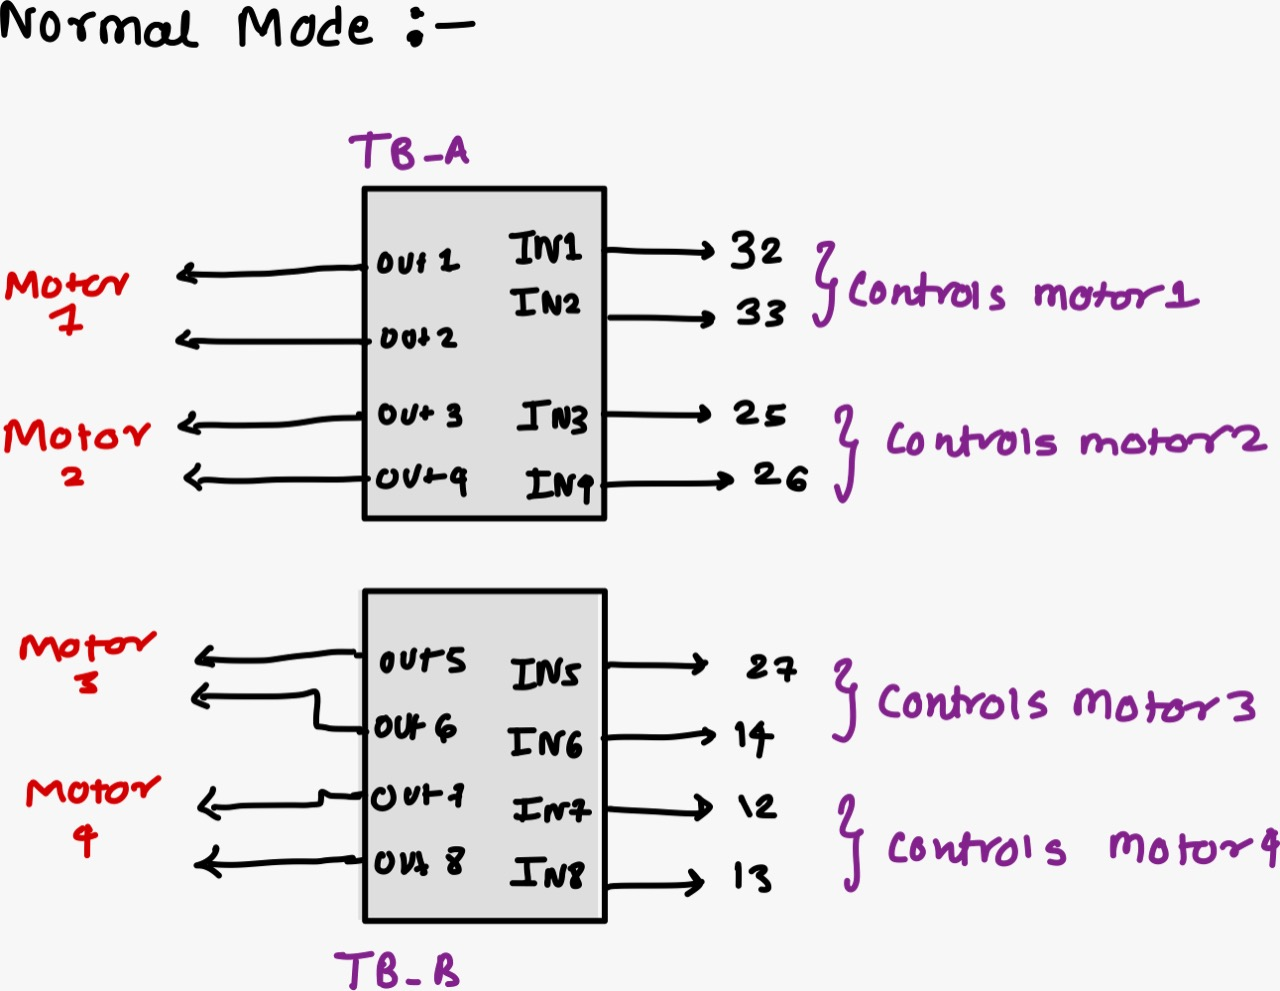
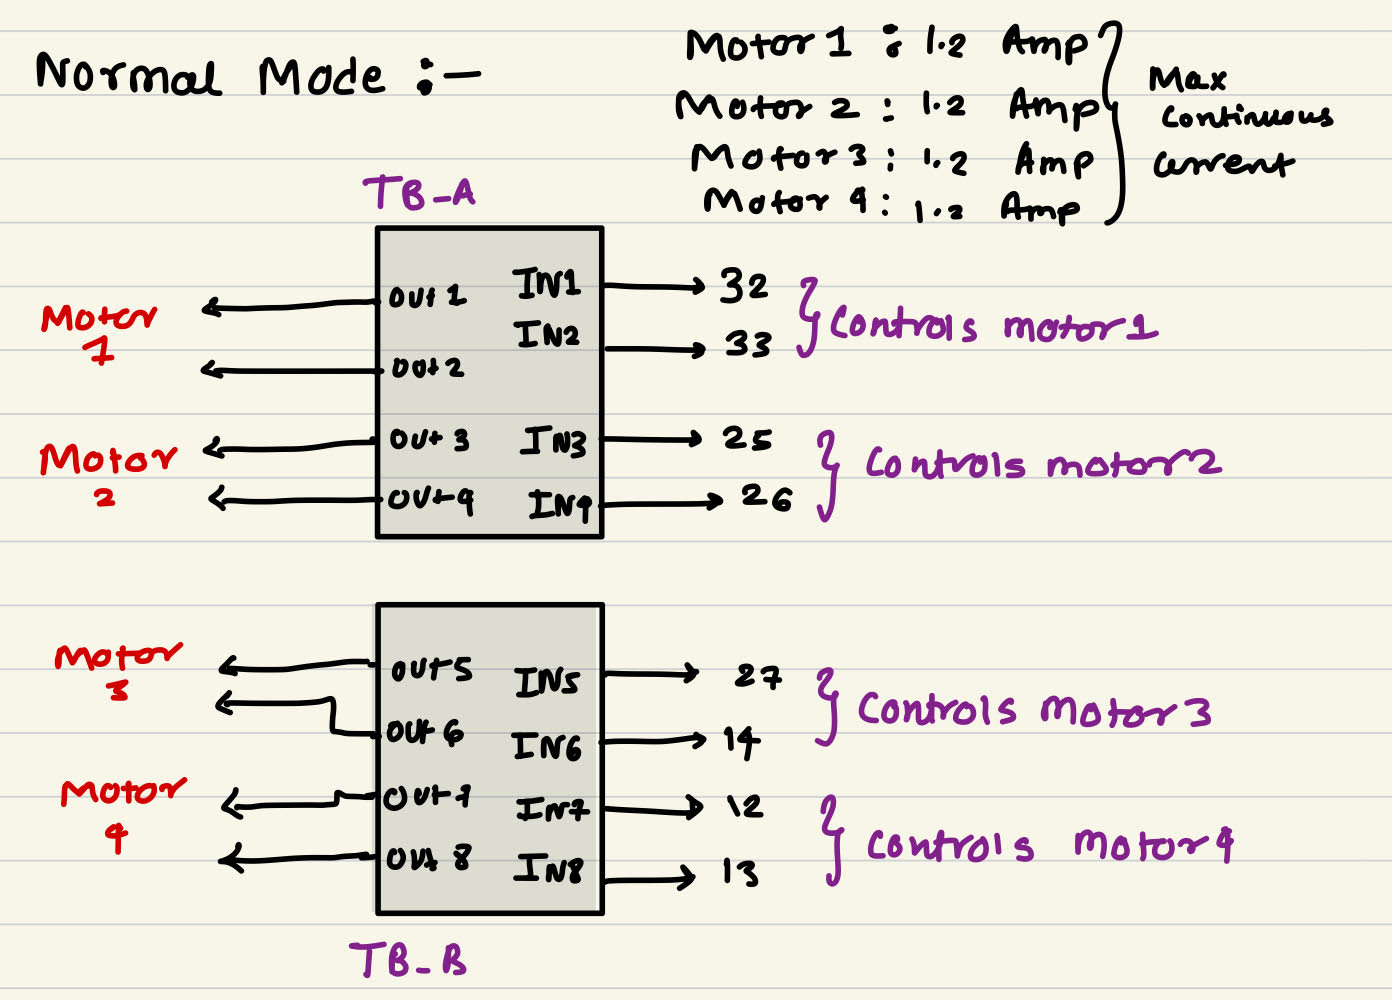
documentation edited

diff --git a/Documentation/SRA_BOARD_2020.md b/Documentation/SRA_BOARD_2020.md
@@ -27,7 +27,7 @@ In general every development board like sra board have following basic features:
     - According to the external sensor types usually development boards have on board sensor ports where sensor can be connected easily using FRC port.
     - Sra board 2019 contains two port for sensors. One port for LSA (line sensor array) and second port is for MPU6050.
 
-- ### Protection against reverse voltage and overcurrent:
+- ### Protection against [reverse voltage](https://www.google.com/url?sa=t&rct=j&q=&esrc=s&source=web&cd=&cad=rja&uact=8&ved=2ahUKEwjc8aaX1c3rAhXXXSsKHXphBgQQFjABegQICxAD&url=https%3A%2F%2Fwww.ti.com%2Flit%2Fpdf%2Fslva139&usg=AOvVaw0Qbub75JJ986MzLv6FYWKE) and overcurrent:
     - In sra board 2019 diodes are used in power line for reverse voltage protection.
     - And for the overcurrent protection of microcontroller and motor driver circuit fuses of 300mA and 3Amp are used respectively.
 
@@ -39,31 +39,31 @@ In general every development board like sra board have following basic features:
     - Sra board 2019 has power switch for motor driver using which power supply to motor driver can be turned on or off.
     - Similarly there is a MCU switch for esp32 microcontroller using which microcontroller can be turned on or off.
 
->Now that you understood about basic of development board now let's talk about changes made in the new design.(for more detailed info of sra board 2019 checkout this [pdf](https://github.com/ombhilare999/SRA-BOARD-2020/blob/master/Documentation/assets/Sra-board-2019.pdf))
+>Now that we covered basic of development board, let's talk about changes made in the new design.(for more detailed info of sra board 2019 checkout this [pdf](https://github.com/ombhilare999/SRA-BOARD-2020/blob/master/Documentation/assets/Sra-board-2019.pdf))
 
-- ## Major changes made in the new design:
-    - **7805(5V linear regulator) replaced by [LM2596 buck](https://www.youtube.com/watch?v=m8rK9gU30v4) circuit:**<br /><br />
-        - The reason of changing to buck circuit rather than using simple 7805 is the efficiency, output current and reliability of LM2596 is more than 7805.
-        - The efficiency of LM2596 is upto 92% which is way better than 7805. The LM2596 can provide current upto 3 Amp so from now on servos in ros workshop can be run using on board regulator itself.
-    <br /><br />
-    - **LD33(3.3V) replaced by AMS1117**:<br /><br />
-        - Until last year we were using LD33 to convert 5V to 3.3V but after talking to our super senior we have decided to shift to more compact, reliable AMS1117(SOT-23) linear voltage regulator. (same voltage regulator i.e. AMS1117 is used on esp32 devkit c V4 module)
-    <br /><br />
+## Major changes made in the new design:
+- ### **7805(5V linear regulator) replaced by [LM2596 buck](https://www.youtube.com/watch?v=m8rK9gU30v4) circuit:**
+    - The reason of changing to buck circuit rather than using simple 7805 is the efficiency, output current and reliability of LM2596 is more than 7805.
+    - The efficiency of LM2596 is upto 92% which is way better than 7805. The LM2596 can provide current upto 3 Amp so from now on servos in ros workshop can be run using on board regulator itself.
+- ### **LD33(3.3V) replaced by [AMS1117](http://www.advanced-monolithic.com/pdf/ds1117.pdf)**:
+    - Until last year we were using LD33 to convert 5V to 3.3V but after talking to our super senior we have decided to shift to more compact, reliable AMS1117(SOT-23) linear voltage regulator. (same voltage regulator i.e. AMS1117 is used on esp32 devkit c V4 module)
 
-    - **L298N replaced by [TB6612FNG](https://dronebotworkshop.com/tb6612fng-h-bridge/)**:<br /><br />
-        - L298N is a bjt based H bridge motor driver but it is less efficient as compare to the new mos based TB6612FNG.
-        - Detailed comparison show below. As you can see the efficiency of TB6612FNG can reach up to 91-95% which is way higher than compare to the 40-70% efficiency of L298N.
-        - The only drawback of TB6612FNG is less continuous current which is equal to 1.2 Amp. So for higher current capacity motors two TB6612FNG are given on the board. so they can be used in parallel mode to double the current capacity to 2.4 Amp.
+- ### **Diodes for reverse voltage replaced by P TYPE mosfet**:
+    - Diodes in series of power line are too inefficient as compare to pmosfet and as we are using high rated motors and all it was too hard to maintain diode size. As current rating of diode increases it's size also increases.
+    - so in this year board we have used pmosfet instead of diode. It is more efficient and it can handle more current than diodes used in earlier design.
+
+- ### **L298N replaced by [TB6612FNG](https://dronebotworkshop.com/tb6612fng-h-bridge/)**:
+    - L298N is a bjt based H bridge motor driver but it is less efficient as compare to the new mos based TB6612FNG.
+    - Detailed comparison show below. As you can see the efficiency of TB6612FNG can reach up to 91-95% which is way higher than compare to the 40-70% efficiency of L298N.
+    - The only drawback of TB6612FNG is less continuous current which is equal to 1.2 Amp. So for higher current capacity motors two TB6612FNG are given on the board. so they can be used in parallel mode to double the current capacity to 2.4 Amp.
     
     <p align="center">
         <img width="460" height="300" src="https://i1.wp.com/dronebotworkshop.com/wp-content/uploads/2019/12/TB6612-vs-L298N.jpeg?w=768&ssl=1">
     </p>
 
-    <br /><br />
-
-    - **4 motor channels and normal, parallel mode of motor driver**:<br /><br />
-        - In previous year sra board one L298N was used using which only two motors as l298n as two motor channels but in this year 2x TB6612FNG  motor driver is used so maximum 4 motors can be controlled using esp32.
-        - Motor driver can be worked in two modes **Normal mode** and **parallel mode**:   
+- ### **4 motor channels and normal, parallel mode of motor driver**:<br /><br />
+    - In previous year sra board one L298N was used using which only two motors as l298n as two motor channels but in this year 2x TB6612FNG  motor driver is used so maximum 4 motors can be controlled using esp32.
+    - Motor driver can be worked in two modes **Normal mode** and **parallel mode**:   
         1. **Normal Mode**:<br />
         <p align="center">
             <img width="460" height="300" src="/Documentation/assets/normal_mode.jpeg">
@@ -71,21 +71,24 @@ In general every development board like sra board have following basic features:
 
         -  As discussed earlier in new design there are two motor drivers. Each TB6612FNG can control two motors. So therefore using two motor driver one can control 4 motors using 8 GPIO's of esp32.
         - For example: if 32 pin is HIGH(IN1 = HIHG) and pin 33 is low(IN2 = LOW) then motor 1 moves in the forward direction. 
-        - So in normal mode 4 motors can be connected to the board.<br /><br />
+        - So in normal mode 4 motors can be connected to the board and one thing note is per channel/motor the current capacity is 1.2 Amp<br /><br />
         2. **Parallel Mode**:<br />
          <p align="center">
-            <img width="460" height="300" src="/Documentation/assets/normal_mode.jpeg">
+            <img width="460" height="300" src="/Documentation/assets/parallel_mode.jpeg">
         </p>
 
-        - parallel mode.
-    <br /><br />
-    - **Shifting back to vintage Bar Graph LED and more switches**:<br /><br />
-        - In previous year we were using 2 programmable switches and 2 programmable Leds but in this years design we have provided bar graph led which contains 10 Leds out of which two are reserved for 5V and 3.3V voltage indication purpose.
-        -  So there are 8 programmable leds on the board. These leds multiplexed with directional pins of two motor driver to save pins.
-        -  What are directional pins ? >> Every motor driver channel has two directional pins IN1, IN2. If IN1 is high and IN2 is low then motors move in clockwise direction and there are 4 channels on the board so 4*2 = 8 diretional pins are multiplexed with 8 programmable leds)
-        -  With 8 leds in hand programmer can do crazy tricks for debugging. Some examples are as follows:
+        -  Parallel mode is special feature, it is used for high rated motors. if suppose your motor needs more than 1.2 amp current then for that motor parallel mode should be used.
+        -  In parallel mode the channel's directional pins and output pins are shorted. so only one motor is connected to one motor driver i.e. using two channels you can control one motor because of which current capacity is doubled to 2.4 amp.
+        -  So in parallel mode two high rated motors can be controlled using esp32.
+        -  One thing should be noted here that directional pin shorting is done by manyal DPDT switch. If user turns on 'TB_A' switch then first motor driver goes into parallel mode and its directional pins are shorted. IN1 = IN3 = 25 and IN2 = IN4 = 26.If TB_A switch is off first motor driver goes into normal mode where gpio connections are IN1 = 32: IN2 = 33: IN3 = 25: IN4 = 26. This is all done automatically. 
+        - In parallel mode the J1,J2,J3 and J4 junctions needs to be shorted.They shorts the output of the motor driver.
+- ### **Moving back to vintage Bar Graph LED and more no. of switches**:<br /><br />
+    - In previous year we were using 2 programmable switches and 2 programmable Leds but in this years design we have provided bar graph led which contains 10 Leds out of which two are reserved for 5V and 3.3V voltage indication purpose.
+    -  So there are 8 programmable leds on the board. These leds multiplexed with directional pins of two motor driver to save pins.
+    -  What are directional pins ? >> Every motor driver channel has two directional pins IN1, IN2. If IN1 is high and IN2 is low then motors move in clockwise direction and there are 4 channels on the board so 4*2 = 8 diretional pins are multiplexed with 8 programmable leds)
+    -  With 8 leds in hand programmer can do crazy tricks for debugging. Some examples are as follows:
         1. According to the lsa data we can program 4 leds to turn on when line sensor detects white color and turn off for black color with this feature debugging will be easy.
-        2) If motor is moving in forward direction according to that dedicated leds will be turn on indicating IN1 is high and IN2 is low because of this motion of the bot can be debugged.
+        2. If motor is moving in forward direction according to that dedicated leds will be turn on indicating IN1 is high and IN2 is low because of this motion of the bot can be debugged.
 
 
 
